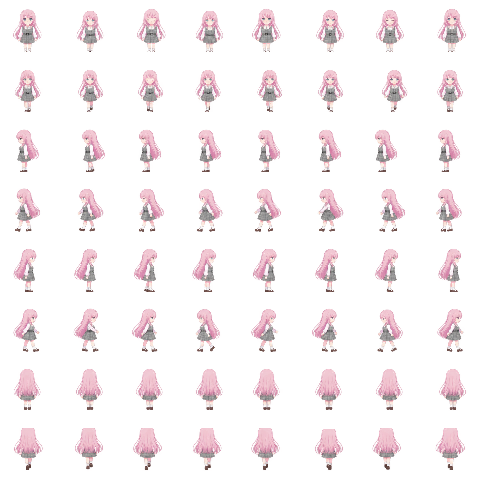
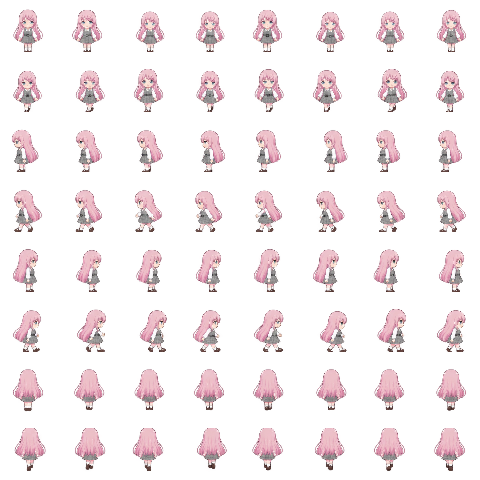
feat: add regenerated anon walking animation

diff --git a/UI/PlayerMotion.h b/UI/PlayerMotion.h
@@ -11,6 +11,7 @@ public:
         m_y = m_targetY = static_cast<float>(tileY);
         m_elapsedMs = 0.0f;
         m_durationMs = 0.0f;
+        m_walkElapsedMs = 0.0f;
     }
 
     void begin(int tileX, int tileY, float pixelsPerSecond) {
@@ -47,7 +48,9 @@ public:
 
     bool advance(float elapsedMs) {
         if (!isMoving()) return false;
-        m_elapsedMs = std::min(m_durationMs, m_elapsedMs + std::max(0.0f, elapsedMs));
+        const float stepMs = std::max(0.0f, elapsedMs);
+        m_walkElapsedMs += stepMs;
+        m_elapsedMs = std::min(m_durationMs, m_elapsedMs + stepMs);
         // 跨格使用恒速插值。每格边界会立即衔接下一格，避免 smoothstep
         // 在终点减速到零后造成明显停顿；逻辑坐标仍由 Game 独立维护。
         const float t = progress();
@@ -68,8 +71,11 @@ public:
     int walkingFrame(int frameCount = 4) const {
         if (frameCount <= 1) return 0;
         if (!isMoving()) return std::min(1, frameCount - 1);
-        return std::min(frameCount - 1,
-                        static_cast<int>(progress() * static_cast<float>(frameCount)));
+        // Keep a steady animation cadence across tile boundaries. Tying the
+        // frame to per-tile progress restarts the cycle every step and makes
+        // held movement look like it pauses on each grid line.
+        constexpr float frameDurationMs = 50.0f;
+        return static_cast<int>(m_walkElapsedMs / frameDurationMs) % frameCount;
     }
     float x() const { return m_x; }
     float y() const { return m_y; }
@@ -83,4 +89,5 @@ private:
     float m_targetY = 0.0f;
     float m_elapsedMs = 0.0f;
     float m_durationMs = 0.0f;
+    float m_walkElapsedMs = 0.0f;
 };

diff --git a/UI/MainWindow.cpp b/UI/MainWindow.cpp
@@ -249,6 +249,16 @@ MainWindow::MainWindow(Game* game, QWidget* parent)
     ui.mapWidget->setFocusPolicy(Qt::NoFocus);
     QSettings settings(QStringLiteral("MyGO-Mota"), QStringLiteral("MyGO-Mota"));
     m_battleFeedbackEnabled = settings.value(QStringLiteral("battleFeedback"), true).toBool();
+    // Re-enable animation once for the regenerated 8x8 walk sheet. The user
+    // can still turn it off afterwards; this only migrates older saved settings
+    // that may have disabled animation while the previous sheet was broken.
+    constexpr int walkAnimationAssetVersion = 2;
+    if (settings.value(QStringLiteral("walkAnimationAssetVersion"), 0).toInt() <
+        walkAnimationAssetVersion) {
+        settings.setValue(QStringLiteral("movementAnimation"), true);
+        settings.setValue(QStringLiteral("walkAnimationAssetVersion"),
+                          walkAnimationAssetVersion);
+    }
     ui.mapWidget->setMovementAnimationEnabled(
         settings.value(QStringLiteral("movementAnimation"), true).toBool());
     connect(ui.mapWidget, &MapWidget::tileClicked, this, [this](int x, int y) {

diff --git a/tests/test_player_motion.cpp b/tests/test_player_motion.cpp
@@ -12,7 +12,7 @@ int main() {
     assert(std::fabs(motion.progress() - 0.30f) < 0.001f);
     // 连续移动采用恒速插值，避免每个格子边界因减速而产生卡顿。
     assert(std::fabs(motion.x() - 2.300f) < 0.002f);
-    assert(motion.walkingFrame() == 1);
+    assert(motion.walkingFrame() == 2);
     assert(motion.isMoving());
     motion.advance(240);
     assert(!motion.isMoving());
@@ -29,6 +29,9 @@ int main() {
     assert(!motion.isMoving());
     assert(motion.beginGridStep(3, 3, 4, 3, 260.0f));
     assert(motion.isMoving());
+    motion.advance(50);
+    // The walk cycle continues across tile boundaries instead of restarting.
+    assert(motion.walkingFrame(8) == 6);
 
     // 游戏位置始终按格计算：只有相邻格才播放移动动画，传送等跨格变化直接吸附。
     motion.snapTo(2, 3);
